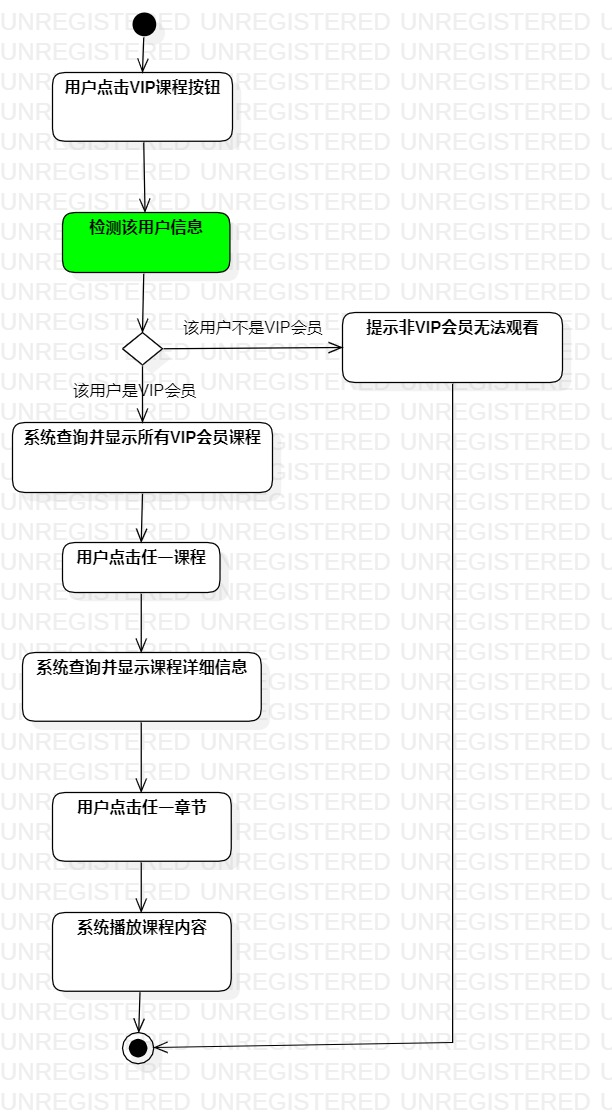
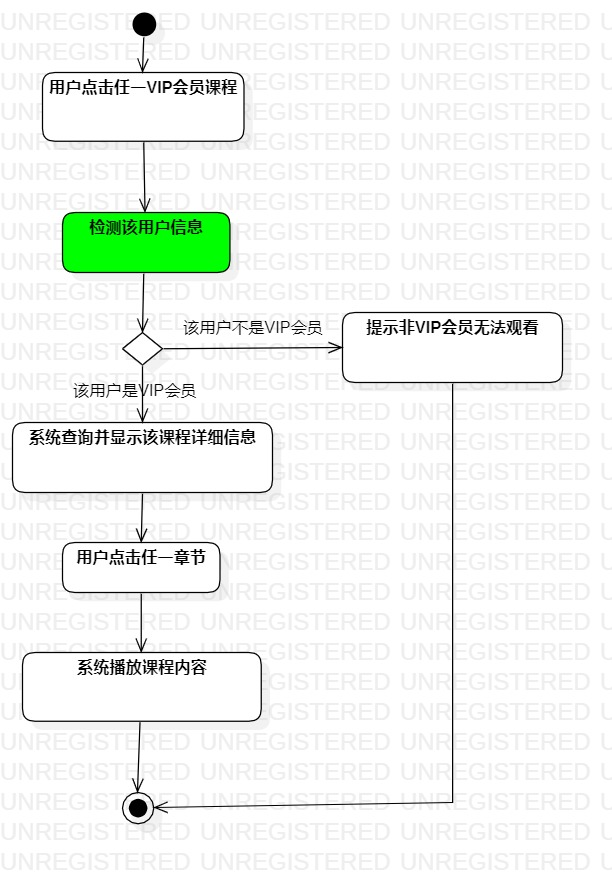
#3 #4 #5 #6 #424 实验六：交互建模

diff --git a/students/1714080902240/lab2.md b/students/1714080902240/lab2.md
@@ -63,11 +63,10 @@
 | 用例名称 | 观看VIP会员课程                                              |                      |
 | 前置条件 | 用户已登陆系统且是VIP用户                                    | *可选*               |
 | 后置条件 |                                                              | *可选*               |
-| 基本流程 | 1. 用户点击VIP会员课程按钮；                                 | *用例执行成功的步骤* |
+| 基本流程 | 1. 用户点击任一VIP会员课程；                                 | *用例执行成功的步骤* |
 | ~        | 2. 系统检测该用户信息，确认是VIP会员；                       |                      |
-| ~        | 3. 系统查询并显示所有VIP会员课程；                           |                      |
-| ~        | 4. 用户点击任一课程；                                        |                      |
-| ~        | 5. 系统查询该课程并显示课程详细信息；                        |                      |
-| ~        | 6. 用户点击任一章节，系统播放课程内容。                      |                      |
+| ~        | 3. 系统查询并显示该课程详细信息；                            |                      |
+| ~        | 4. 用户点击任一章节；                                        |                      |
+| ~        | 5. 系统播放课程内容。                                        |                      |
 | 扩展流程 | 2.1 系统检测该用户不是VIP会员，提示“您不是VIP会员，无法观看！”。 | *用例执行失败*       |
 
